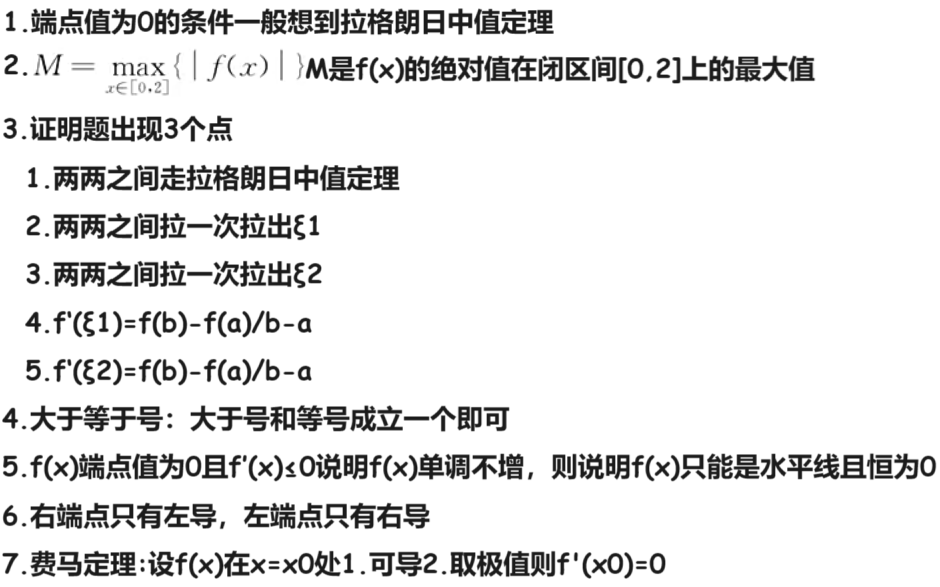
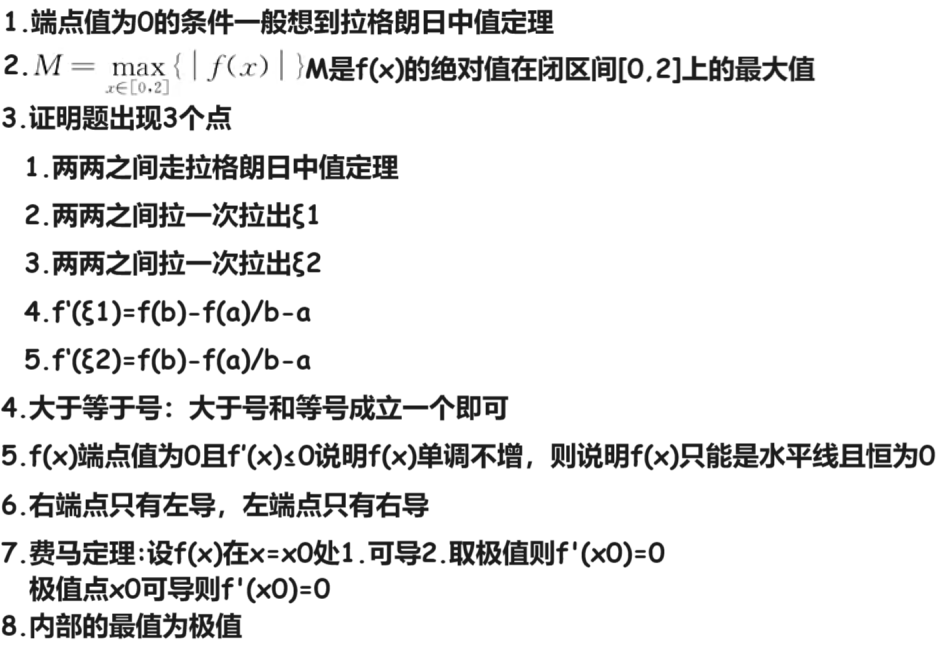
231123

Changed region(s): [[0.0, 0.6133, 1.0, 1.0], [0.0, 0.0, 0.8638, 0.5826], [0.5862, 0.6746, 1.0, 0.7359]]

diff --git a/05 每日一题/01 20数一/19 20T19【拉格朗日中值定理】231122/01 Note.md b/05 每日一题/01 20数一/19 20T19【拉格朗日中值定理】231122/01 Note.md
@@ -1,6 +1,6 @@
 # 背诵
 
-<img src="https://cvp.oss-cn-shanghai.aliyuncs.com/picgo/202311231558938.png" alt="image-20231123155801861" style="zoom:50%;" />
+<img src="https://cvp.oss-cn-shanghai.aliyuncs.com/picgo/202311232011549.png" alt="image-20231123201157408" style="zoom:50%;" />
 
 
 
@@ -13,6 +13,12 @@
 # 答案
 
 <img src="https://cvp.oss-cn-shanghai.aliyuncs.com/picgo/202311231603841.png" alt="image-20231123160353748" style="zoom:50%;" />
+
+
+
+# 答案解析
+
+<img src="https://cvp.oss-cn-shanghai.aliyuncs.com/picgo/202311232012926.png" alt="image-20231123201229489" style="zoom:50%;" />
 
 
 
